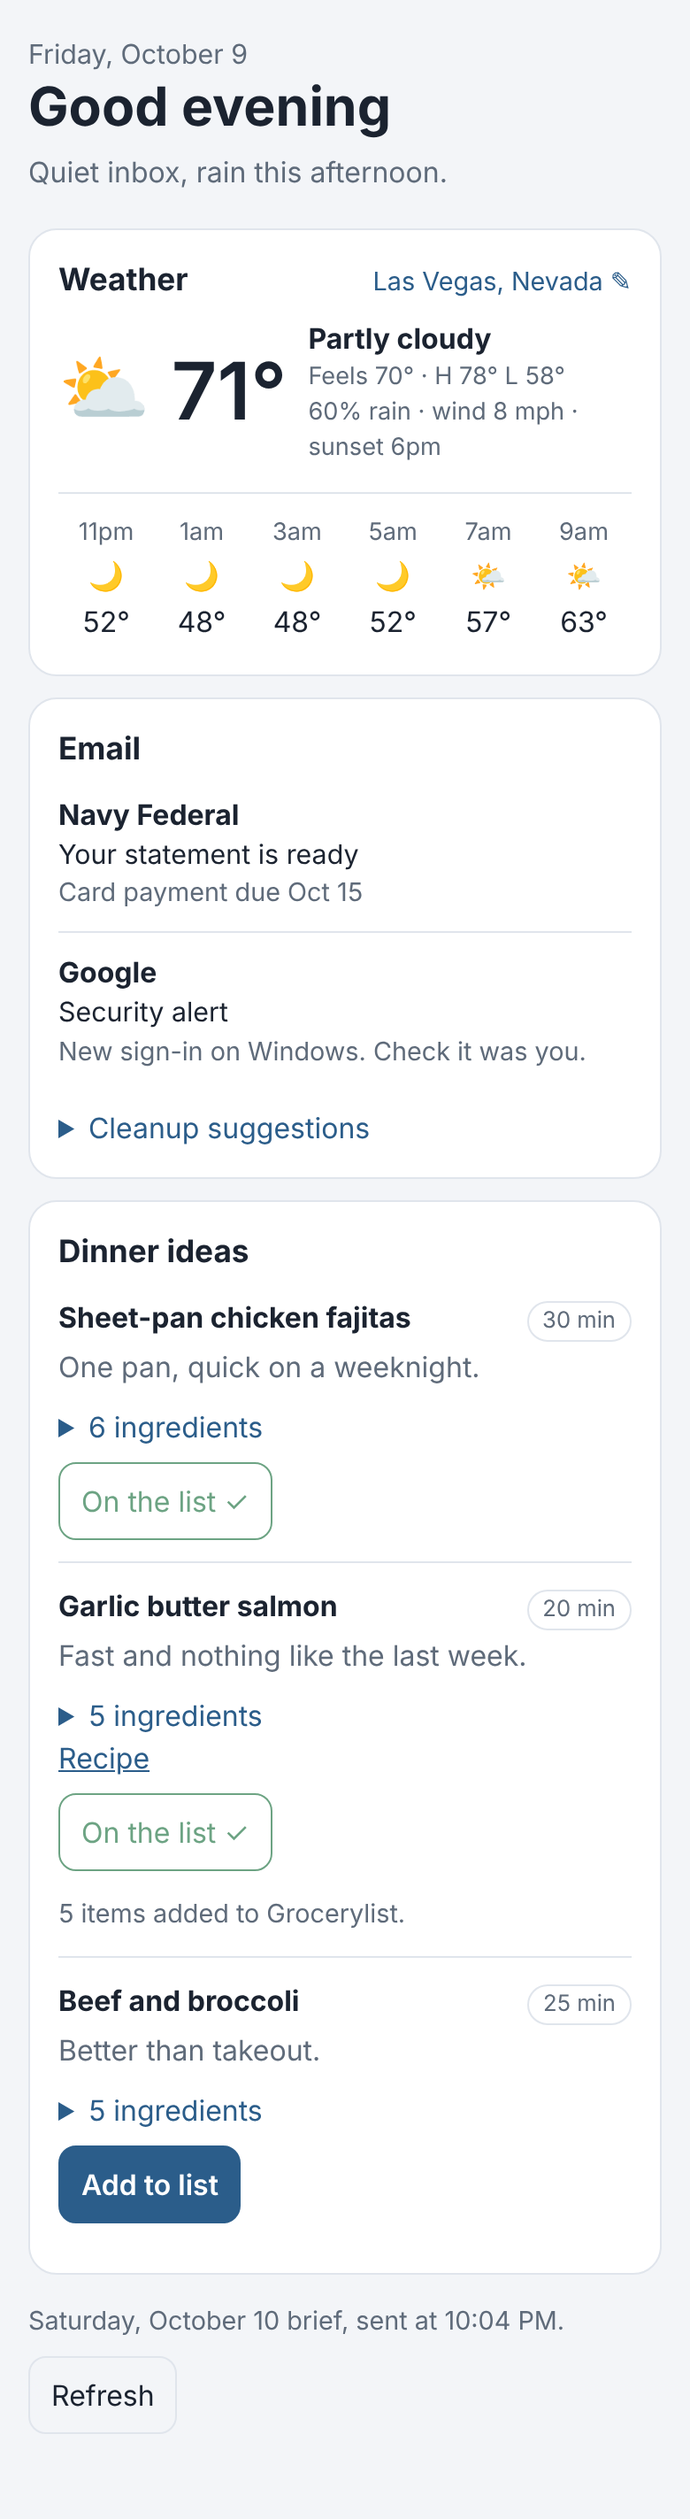
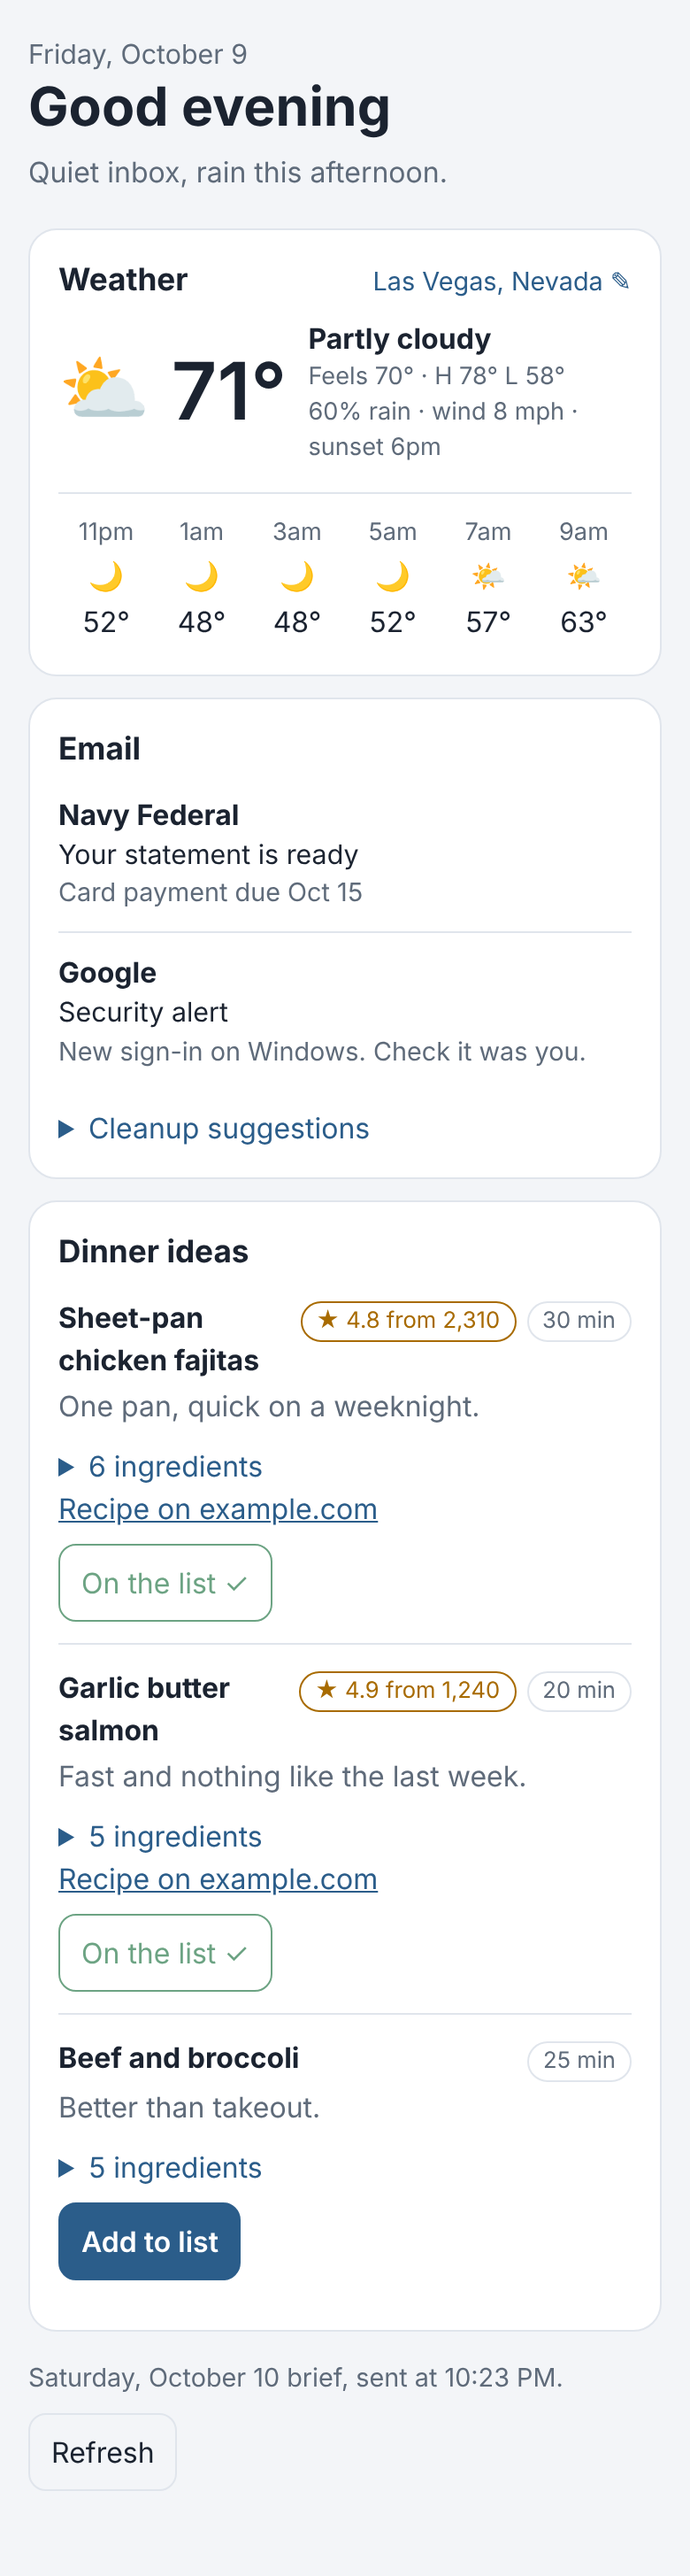
Show each dinner's star rating and which site the recipe is on
Claude-Session: https://claude.ai/code/session_01ArYkuu39YnxHhjAUGpDkPL

diff --git a/public/js/app.js b/public/js/app.js
@@ -40,6 +40,13 @@ const hourOf = (local) => {
   const hour = Number(local.slice(11, 13));
   return `${hour % 12 || 12}${hour < 12 ? 'am' : 'pm'}`;
 };
+const siteOf = (url) => {
+  try {
+    return new URL(url).hostname.replace(/^www\./, '');
+  } catch {
+    return 'the web';
+  }
+};
 const dayName = (date) => new Date(`${date}T12:00:00`).toLocaleDateString([], { weekday: 'long', month: 'long', day: 'numeric' });
 
 function header() {
@@ -141,13 +148,15 @@ function renderDinners(brief) {
   $('dinners').replaceChildren(...brief.dinners.map((dinner, index) => el('li', {},
     el('div', { class: 'dinner-head' },
       el('strong', {}, dinner.name),
-      dinner.minutes ? el('span', { class: 'pill' }, `${dinner.minutes} min`) : null),
+      el('span', { class: 'pills' },
+        dinner.rating ? el('span', { class: 'pill rating' }, `★ ${dinner.rating}`) : null,
+        dinner.minutes ? el('span', { class: 'pill' }, `${dinner.minutes} min`) : null)),
     dinner.why ? el('p', { class: 'why' }, dinner.why) : null,
     dinner.ingredients.length
       ? el('details', {}, el('summary', {}, `${dinner.ingredients.length} ingredients`),
         el('ul', { class: 'ingredients' }, dinner.ingredients.map((line) => el('li', {}, line))))
       : null,
-    dinner.url ? el('a', { href: dinner.url, target: '_blank', rel: 'noopener' }, 'Recipe') : null,
+    dinner.url ? el('a', { href: dinner.url, target: '_blank', rel: 'noopener' }, `Recipe on ${siteOf(dinner.url)}`) : null,
     dinnerButton(brief, dinner, index))));
   $('dinner').hidden = !brief.dinners.length;
 }

diff --git a/public/styles.css b/public/styles.css
@@ -9,6 +9,7 @@
   --accent-text: #ffffff;
   --good: #2f7d4f;
   --rain: #2f6fb3;
+  --star: #a86b00;
   --radius: 16px;
 }
 
@@ -23,6 +24,7 @@
     --accent-text: #0e1a26;
     --good: #5cc183;
     --rain: #8cc0f2;
+    --star: #f2b84b;
   }
 }
 
@@ -112,6 +114,8 @@ summary { cursor: pointer; color: var(--accent); }
 .dinners > li:first-child { border-top: 0; padding-top: 0; }
 .dinner-head { display: flex; justify-content: space-between; gap: 8px; align-items: baseline; }
 .dinners .why { margin: 2px 0 6px; color: var(--muted); }
+.pills { display: flex; gap: 6px; flex-shrink: 0; }
+.pill.rating { color: var(--star); border-color: currentColor; }
 .pill { font-size: 0.8rem; color: var(--muted); border: 1px solid var(--line); border-radius: 999px; padding: 1px 8px; white-space: nowrap; }
 .ingredients { margin: 6px 0; padding-left: 20px; color: var(--muted); }
 .actions { margin-top: 8px; }

diff --git a/test/brief.test.js b/test/brief.test.js
@@ -14,6 +14,7 @@ test('the example brief comes through whole', () => {
   assert.deepEqual(brief.email.cleanup[0], { sender: 'Kate Spade', count: 41 });
   assert.equal(brief.dinners.length, 3);
   assert.equal(brief.dinners[1].url, 'https://www.example.com/garlic-butter-salmon');
+  assert.equal(brief.dinners[1].rating, '4.9 from 1,240');
   assert.equal(brief.receivedAt, '2026-10-10T14:50:00.000Z');
 });
 

diff --git a/src/brief.js b/src/brief.js
@@ -37,6 +37,7 @@ function dinner(item) {
     name,
     minutes: Number.isFinite(minutes) ? minutes : null,
     why: text(item.why),
+    rating: text(item.rating, 40),
     url,
     ingredients: list(item.ingredients).map((line) => text(line, 120)).filter(Boolean).slice(0, 40),
   };

diff --git a/public/sw.js b/public/sw.js
@@ -1,6 +1,6 @@
 // Offline shell. The last brief is kept in localStorage, so once the shell is
 // cached the app opens and shows it with no signal.
-const VERSION = 'v1';
+const VERSION = 'v2';
 const CACHE = `daily-brief-${VERSION}`;
 const SHELL = [
   '/',

diff --git a/README.md b/README.md
@@ -56,7 +56,7 @@ Every field is optional, but there has to be something in it:
 | `email.needsYou` | Up to 12 of `{ from, subject, why }`, or plain strings. |
 | `email.cleanup` | Junk senders to suggest clearing, `{ sender, count }`. Shown only; the app never touches your mail. |
 | `email.note` | Shown when nothing needs you, e.g. "Nothing new". |
-| `dinners` | Up to 5 of `{ name, minutes, why, url, ingredients: ["1 lb beef", …] }`. |
+| `dinners` | Up to 5 of `{ name, rating, minutes, why, url, ingredients: ["1 lb beef", …] }`. `rating` is shown as written, e.g. `"4.9 from 1,240"`. |
 | `notes` | Anything else worth a line. |
 
 The last 14 days are kept; the app has a picker for earlier ones.
